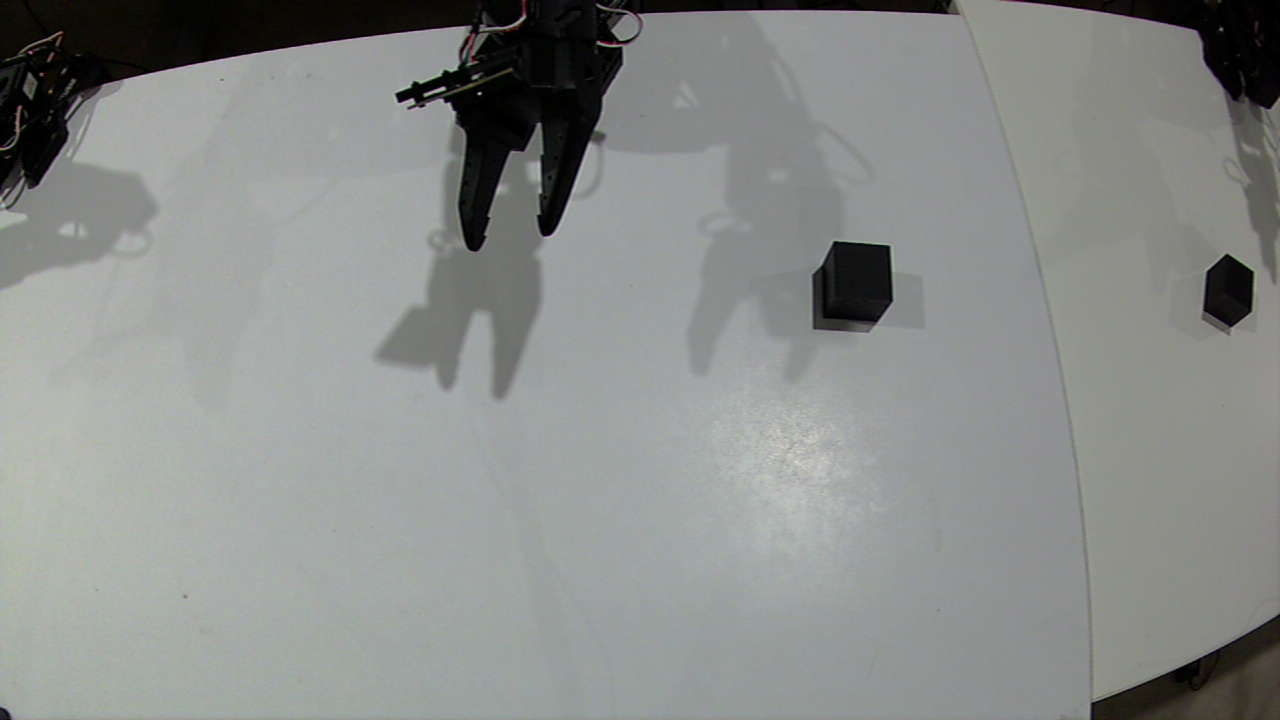
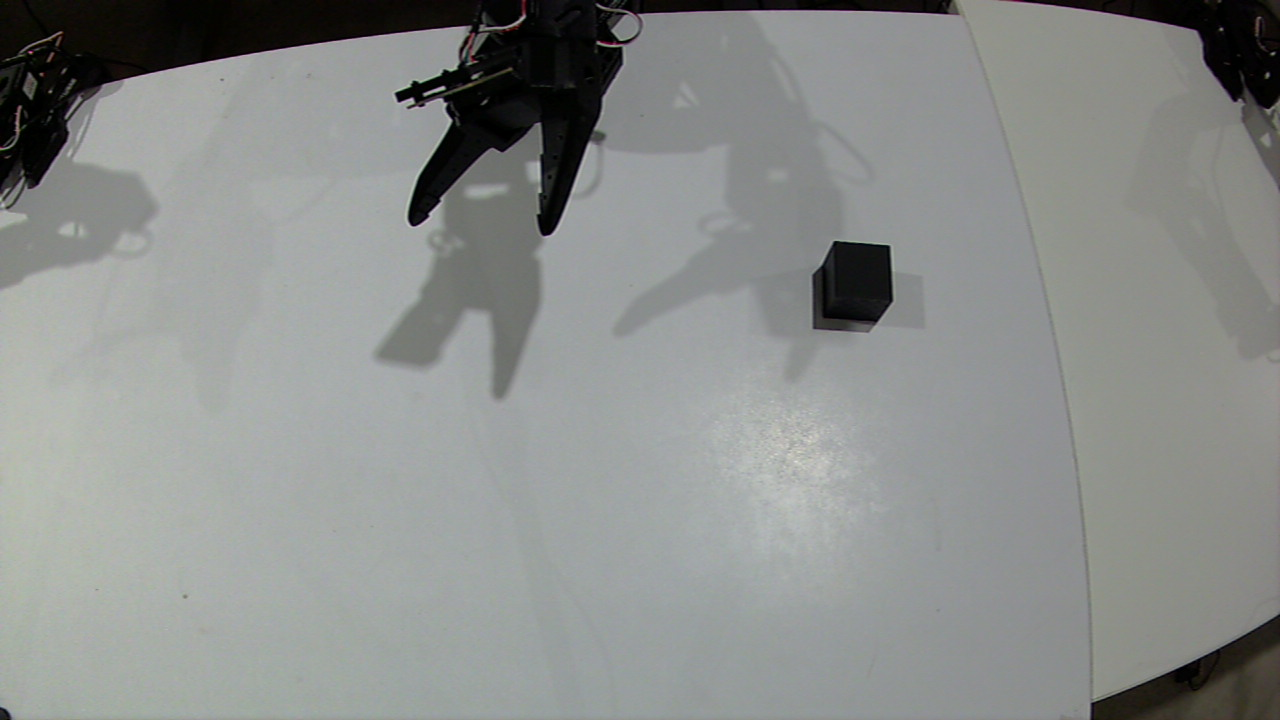
Update tools for arm-007__gpt-6-astra__grasp-cube
{"agent_id": "arm-007__gpt-6-astra__grasp-cube", "designation": "arm-007", "identity_version": 2, "model": "gpt-6-astra", "provider": "codex", "task_definition": {"description": "Start episode, pickup the black cube, bring black cube to home position, confirm successful grasp, stop episode, return object to new position, return home, repeat", "id": "grasp-cube", "success_criteria": ["successful episode coverage across the entire workspace", "achieve at least 50 successful episodes an hour"], "version": 2}, "task_id": "grasp-cube", "task_sha256": "e6c8adbb1562fdc6af3405e2e618046b110e27856c520c9f5cd329c258fb3818", "task_version": 2, "tools_sha256": "1f61a0c498bdc6a3de139d89fac012443641cfd6a46fe63308510e74c7df6209"}

diff --git a/agents/arm-007__gpt-6-astra__grasp-cube/cube_cycles_before_adaptive.py b/agents/arm-007__gpt-6-astra__grasp-cube/cube_cycles_before_adaptive.py
@@ -30,14 +30,16 @@ def pose(pan,elbow=20):
 def above(q):return {**q,'shoulder_lift':q['shoulder_lift']-30,'wrist_flex':q['wrist_flex']+30}
 def home(b):move(b,HOME,2.3)
 def grip(b):
- g=c.AdaptiveGrip(b);b.adaptive_grip=g
- g.acquire()
  p=b.read('Present_Position','gripper')
- if not 18<p<35:
-  g.stop();raise RuntimeError('Unexpected seated grasp width: '+str(p))
- # Retain the verified fixed goal during home; home only changes four arm joints.
- g.active=False
- return p
+ for goal in range(int(p)-1,5,-1):
+  c.move(b,{'gripper':goal},.05);time.sleep(.06)
+  actual=b.read('Present_Position','gripper')
+  if actual-goal>1.3:
+   if not 18<actual<35:raise RuntimeError('Unexpected contact width: '+str(actual))
+   b.write('Goal_Position','gripper',min(24.,actual-1.2))
+   time.sleep(.15)
+   return actual
+ raise RuntimeError('No cube contact')
 def held(b):
  img,meta=read_frame('wrist')
  dark=float(np.mean(cv2.cvtColor(img[500:650,730:1030],cv2.COLOR_BGR2GRAY)<65))
@@ -60,7 +62,7 @@ def run(n):
     move(b,above(current));move(b,current,1.5)
     contact=grip(b)
     move(b,above(current),1.5)
-    # Adaptive controller's stable goal remains unchanged during lift and home.
+    p=b.read('Present_Position','gripper');b.write('Goal_Position','gripper',p-.8)
     home(b)
     ok,evidence=held(b);snapshot()
     receipt=recording.stop_recording(ok,json.dumps(dict(source_pose=current,contact=contact,home_confirm=evidence)));active=False
@@ -68,7 +70,6 @@ def run(n):
     if not ok:raise RuntimeError('Grasp not verified at home')
     target=pose(*grid[i%len(grid)])
     move(b,above(target));move(b,target,1.5)
-    b.adaptive_grip.release()
     move(b,{'gripper':45},.5)
     current=target;STATE.write_text(json.dumps(current))
     move(b,above(current),1.5);home(b)
